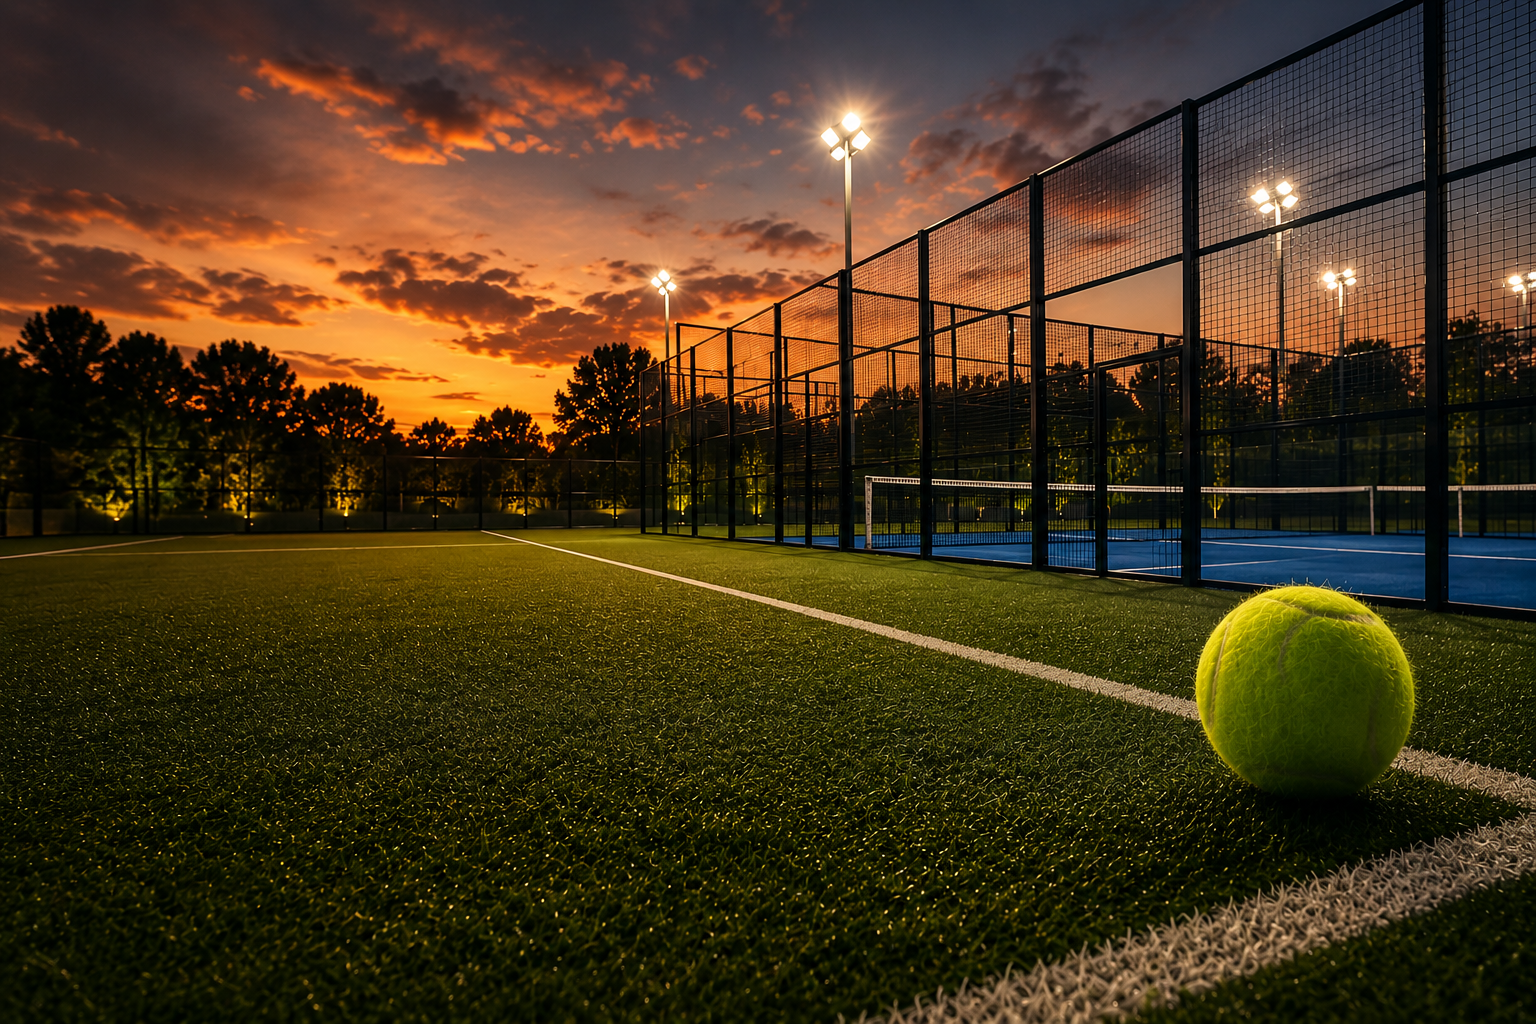
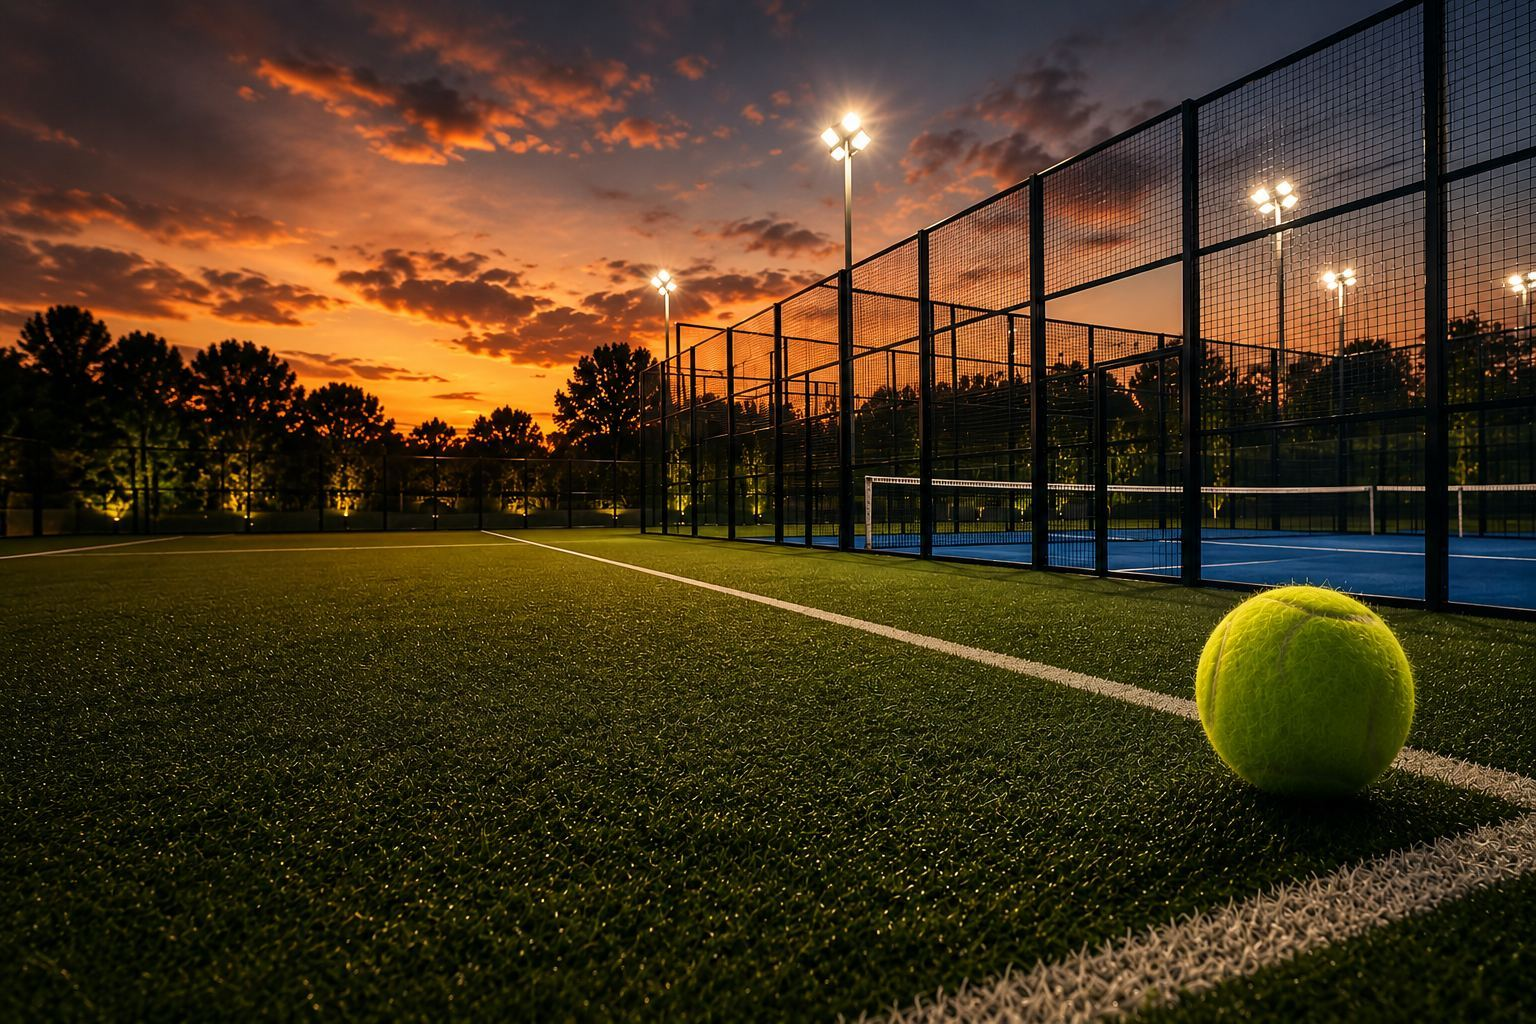
fix: comprimir imagenes pesadas y optimizar al subir fotos de canchas
Las imagenes cargaban lento: el favicon pesaba 1.4MB (se carga en
TODAS las paginas), el fondo del hero 2.8MB, y las fotos de canchas
subidas por el admin se guardaban tal cual las subia el usuario, sin
ningun redimensionado ni compresion (2-3MB cada una, subidas a maximo
5MB por la validacion existente).

Se agrega optimizeAndStore() en el panel de canchas: redimensiona a
maximo 1200px de ancho y comprime a JPEG calidad 80 usando GD (ya es
una dependencia del proyecto via chillerlan/php-qrcode), en vez de
guardar el archivo crudo.

De paso se comprimen favicon.png (1.4MB -> 85KB) y hero-arena.jpg
(2.8MB -> 344KB), que son assets estaticos del repo.

diff --git a/resources/views/livewire/admin/courts/index.blade.php b/resources/views/livewire/admin/courts/index.blade.php
@@ -2,6 +2,8 @@
 
 use App\Models\Court;
 use App\Models\Sport;
+use Illuminate\Support\Facades\Storage;
+use Illuminate\Support\Str;
 use Livewire\Attributes\Layout;
 use Livewire\Volt\Component;
 use Livewire\WithFileUploads;
@@ -34,7 +36,7 @@ new #[Layout('layouts.admin')] class extends Component {
         $imagePath = $this->currentImage;
 
         if ($this->image) {
-            $imagePath = $this->image->store('courts', 'public');
+            $imagePath = $this->optimizeAndStore($this->image);
         }
         if ($this->editingId) {
             Court::findOrFail($this->editingId)->update([
@@ -59,6 +61,41 @@ new #[Layout('layouts.admin')] class extends Component {
         }
 
         $this->resetForm();
+    }
+
+    /**
+     * Redimensiona (max 1200px de ancho) y comprime la imagen antes de
+     * guardarla, para no subir fotos de varios MB sin optimizar.
+     */
+    private function optimizeAndStore($uploadedFile): string
+    {
+        $source = @imagecreatefromstring(file_get_contents($uploadedFile->getRealPath()));
+
+        if (! $source) {
+            return $uploadedFile->store('courts', 'public');
+        }
+
+        $width = imagesx($source);
+        $height = imagesy($source);
+        $maxWidth = 1200;
+
+        if ($width > $maxWidth) {
+            $newHeight = (int) round($height * ($maxWidth / $width));
+            $resized = imagecreatetruecolor($maxWidth, $newHeight);
+            imagecopyresampled($resized, $source, 0, 0, 0, 0, $maxWidth, $newHeight, $width, $height);
+            imagedestroy($source);
+            $source = $resized;
+        }
+
+        ob_start();
+        imagejpeg($source, null, 80);
+        $contents = ob_get_clean();
+        imagedestroy($source);
+
+        $filename = 'courts/' . Str::random(40) . '.jpg';
+        Storage::disk('public')->put($filename, $contents);
+
+        return $filename;
     }
 
     public function edit($id)
